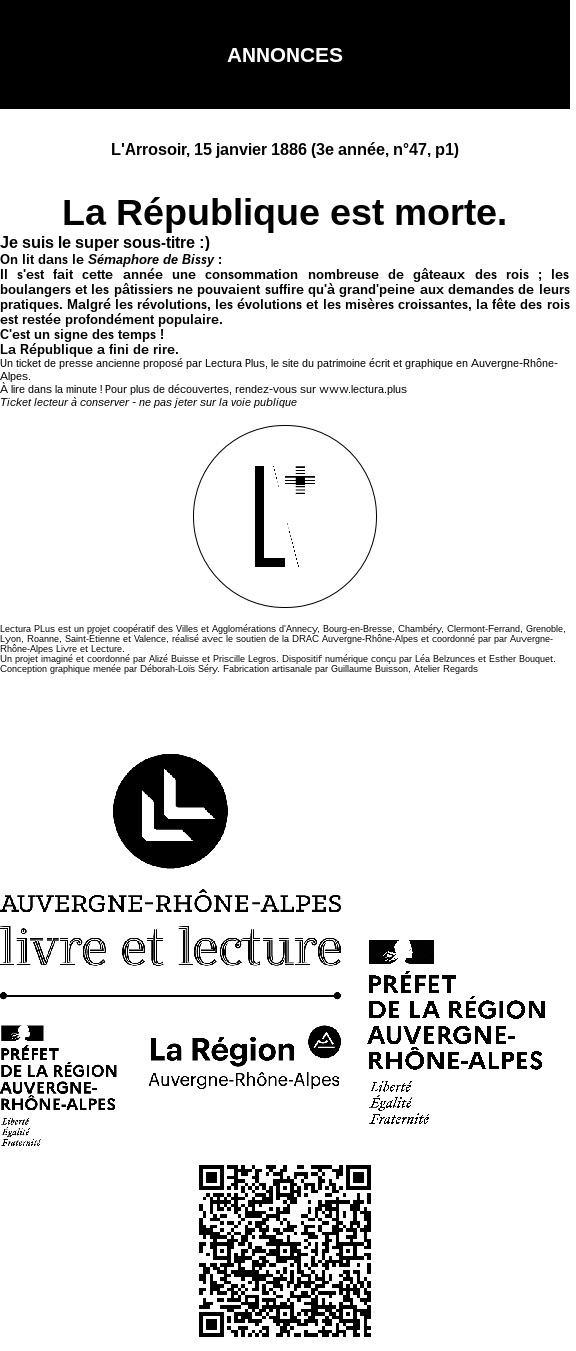
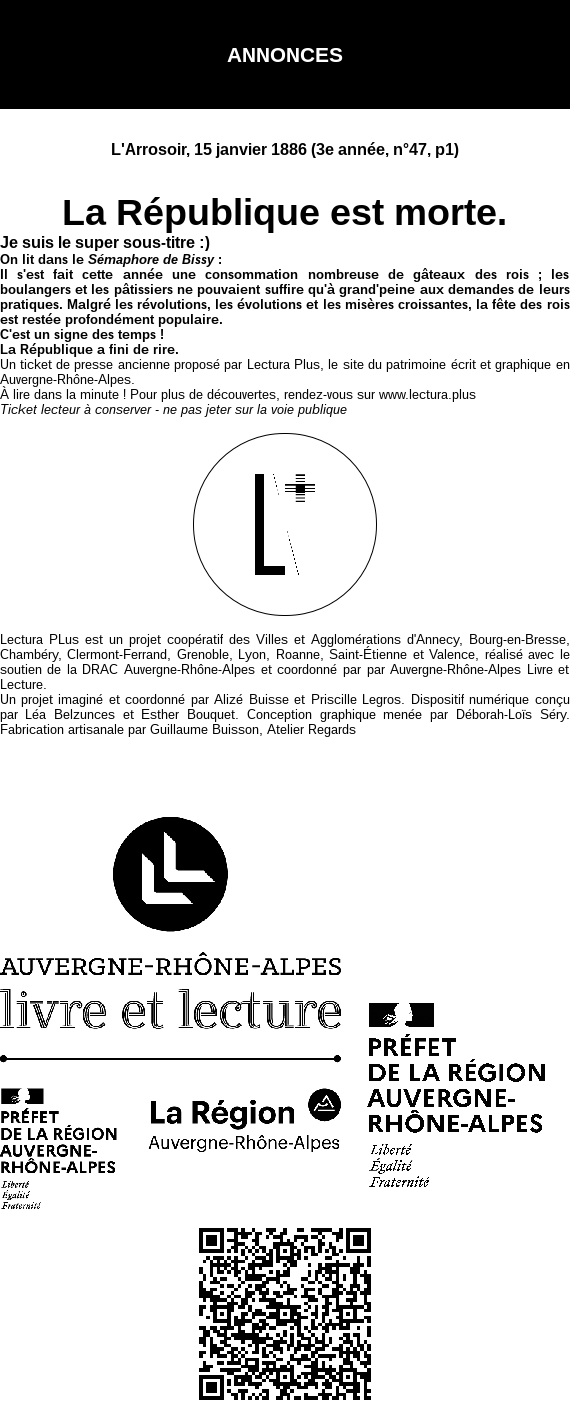
modification css

diff --git a/stylesheet.css b/stylesheet.css
@@ -47,12 +47,14 @@ h5 {
   font-weight: Semi-bold;
 }
 
-/*
+
 p {
   font-size:10pt;   
   font-family: Inter, sans-serif;
   font-weight: regular;
-}*/
+  font-family:"Inter", sans-serif;
+  text-align: justify;
+}
 
 img {
   width: 100%;
